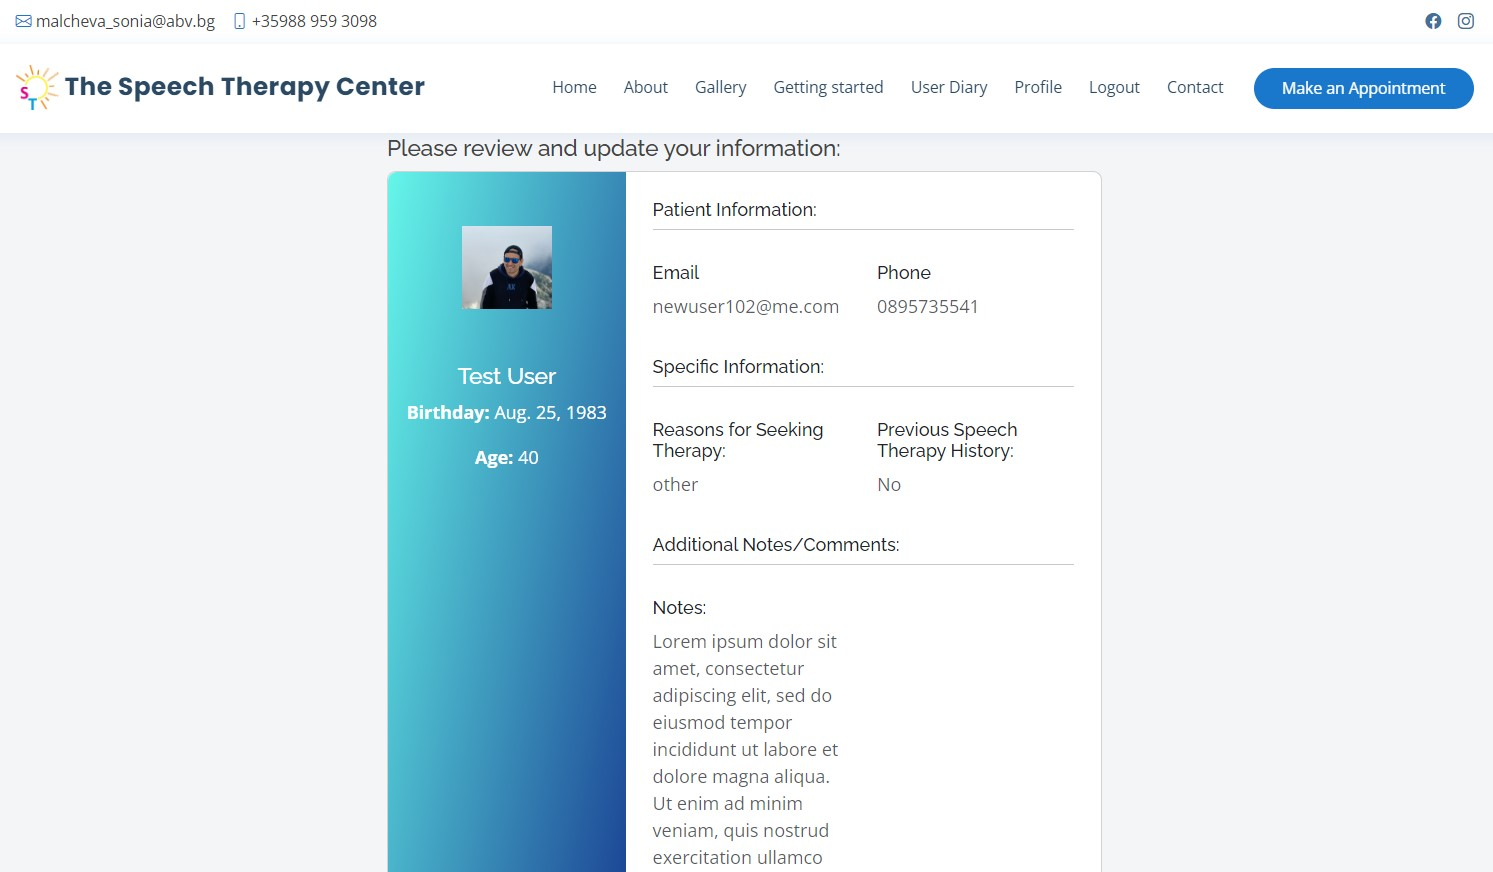
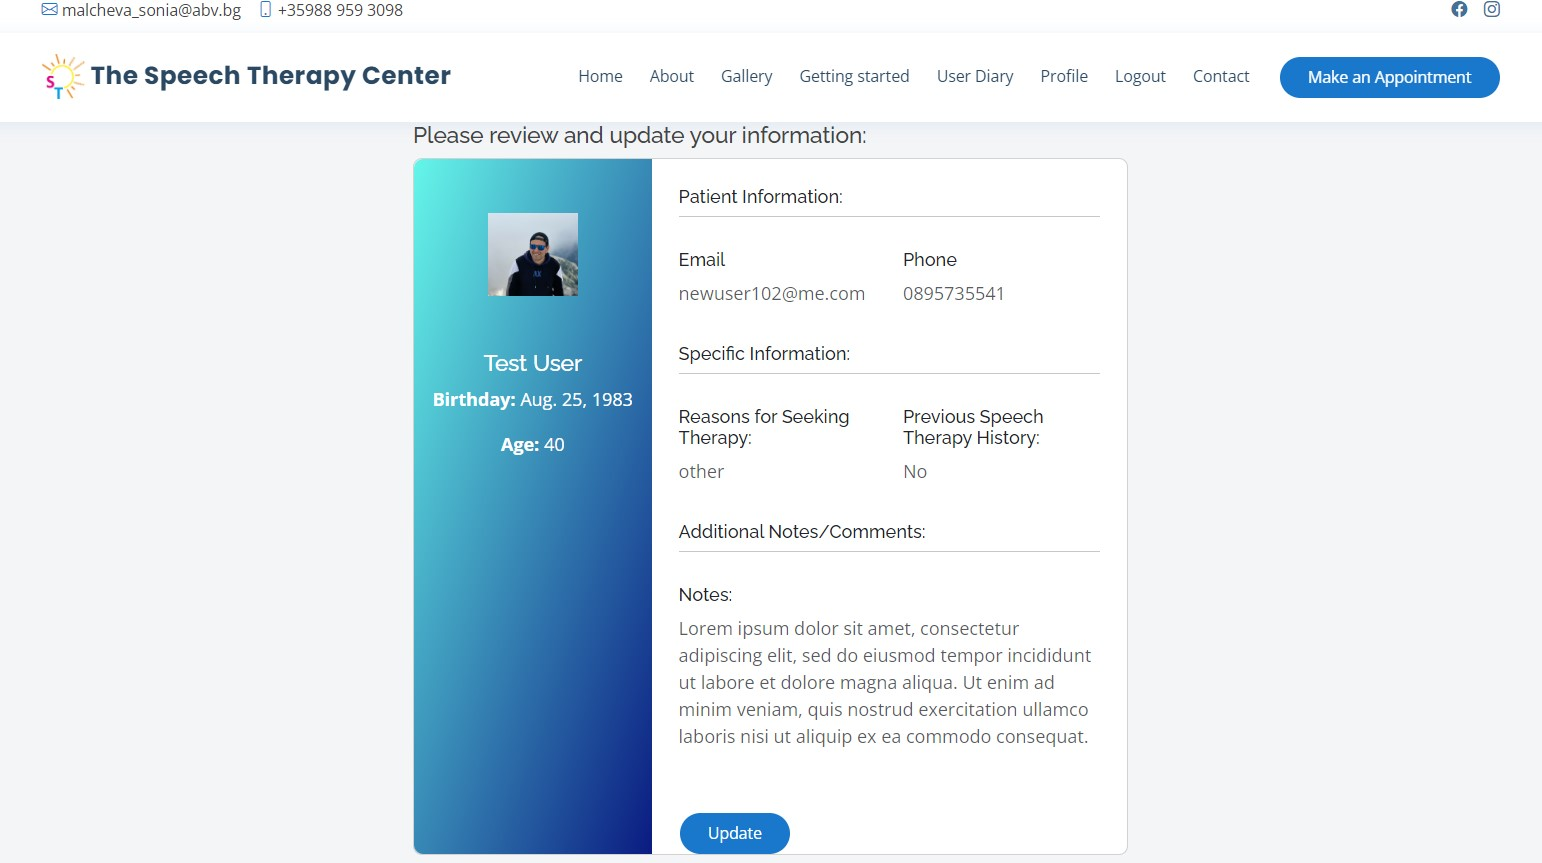
User Questionnaire update

diff --git a/the_speach_therapy_center/templates/services/questionnaires.html b/the_speach_therapy_center/templates/services/questionnaires.html
@@ -14,7 +14,7 @@
                 {% endif %}
                     <h6> * you have completed {{ questionnaires_count }} questionnaires</h6>
             <a href="{% url 'create_questionnaire' %}" class="appointment-btn">Add questionnaire </a>
-        
+
         </div>
       </div>
     <div class="d-flex flex-wrap justify-content-center align-items-center questionnaires-container ">
@@ -34,17 +34,17 @@
                         <p class="card-text">Answer: {{ questionnaire.question_five }}</p>
                       <h5 class="card-title">Additional comments/notes:</h5>
                         <p class="card-text">Notes: {{ questionnaire.comments }}</p>
+                    <a href="{% url 'edit_questionnaire' pk=questionnaire.pk %}" class="appointment-btn"> Update </a>
                 </div>
             </div>
     {% endfor %}
     </div>
-    
+
 {% endblock %}
 
 
 
 
 
-                
 
-                    
+

diff --git a/the_speach_therapy_center/templates/services/questionnaire_edit.html b/the_speach_therapy_center/templates/services/questionnaire_edit.html
@@ -8,9 +8,10 @@
       <div class="container card bg-light mb-3 justify-content-center align-items-center" style="max-width: 60rem;">
         <div class="section-title-registration">
             
-            <h5>Please take a moment to answer the following questions regarding your recent therapy session.</h5>
-                <form action="{% url 'create_questionnaire' %}" method="post"  class="user-update-form">
-                        {{ form.as_p}}
+            <h2> Edit your answers:</h2>
+                <form action="{% url 'edit_questionnaire' pk=object.pk %}" method="post"  class="user-update-form">
+                    
+                    {{ form.as_p}}
                     
                 <button class="appointment-btn" type="submit">Save</button>
             {% csrf_token %}

diff --git a/the_speach_therapy_center/the_speach_therapy_center/services/models.py b/the_speach_therapy_center/the_speach_therapy_center/services/models.py
@@ -1,6 +1,6 @@
 from django.contrib.auth import get_user_model
 from django.db import models
-from django.utils.text import slugify
+
 
 from the_speach_therapy_center.core.models import UserRelatedEntity
 
@@ -8,7 +8,7 @@ UserModel = get_user_model()
 
 
 class UserQuestionnaire(UserRelatedEntity, models.Model):
-    MAX_NAME_LENGTH = 30
+    MAX_COMMENTS_LENGTH = 500
 
     ANSWER_CHOICES = [
         ('Never', 'Never'),
@@ -22,7 +22,7 @@ class UserQuestionnaire(UserRelatedEntity, models.Model):
         choices=ANSWER_CHOICES,
         null=False,
         blank=False,
-        verbose_name="How often do you experience difficulty pronouncing certain sounds?"
+        verbose_name="How often do you experience difficulty pronouncing certain sounds?",
     )
 
     question_two = models.TextField(
@@ -54,7 +54,7 @@ class UserQuestionnaire(UserRelatedEntity, models.Model):
     )
 
     comments = models.CharField(
-        max_length=MAX_NAME_LENGTH,
+        max_length=MAX_COMMENTS_LENGTH,
         null=False,
         blank=False,
         verbose_name="Additional Comments/Feedback:",

diff --git a/the_speach_therapy_center/the_speach_therapy_center/services/migrations/0005_alter_userquestionnaire_question_one.py b/the_speach_therapy_center/the_speach_therapy_center/services/migrations/0005_alter_userquestionnaire_question_one.py
@@ -1,0 +1,18 @@
+# Generated by Django 5.0.2 on 2024-03-23 14:37
+
+from django.db import migrations, models
+
+
+class Migration(migrations.Migration):
+
+    dependencies = [
+        ('services', '0004_alter_userquestionnaire_comments'),
+    ]
+
+    operations = [
+        migrations.AlterField(
+            model_name='userquestionnaire',
+            name='question_one',
+            field=models.TextField(choices=[('Never', 'Never'), ('Rarely', 'Rarely'), ('Occasionally', 'Occasionally'), ('Frequently', 'Frequently'), ('Always', 'Always')], help_text='AlaBala', verbose_name='How often do you experience difficulty pronouncing certain sounds?'),
+        ),
+    ]

diff --git a/the_speach_therapy_center/the_speach_therapy_center/services/views.py b/the_speach_therapy_center/the_speach_therapy_center/services/views.py
@@ -59,11 +59,11 @@ class DetailsQuestionnaireView(views.DetailView):
 
 
 class EditQuestionnaireView(views.UpdateView):
-    pass
-    # queryset = Car.objects.all()
-    # fields = ('type', 'model', 'year', 'image_url', 'price')
-    # template_name = 'car/car-edit.html'
-    # success_url = reverse_lazy('catalogue')
+    queryset = UserQuestionnaire.objects.all()
+    fields = ['question_one', 'question_two', 'question_three', 'question_four',
+              'question_five', 'comments', ]
+    template_name = 'services/questionnaire_edit.html'
+    success_url = reverse_lazy('questionnaires_page')
 
 
 class DeleteQuestionnaireView(views.DeleteView):

diff --git a/the_speach_therapy_center/the_speach_therapy_center/services/migrations/0004_alter_userquestionnaire_comments.py b/the_speach_therapy_center/the_speach_therapy_center/services/migrations/0004_alter_userquestionnaire_comments.py
@@ -1,0 +1,18 @@
+# Generated by Django 5.0.2 on 2024-03-23 14:10
+
+from django.db import migrations, models
+
+
+class Migration(migrations.Migration):
+
+    dependencies = [
+        ('services', '0003_remove_userquestionnaire_name_and_more'),
+    ]
+
+    operations = [
+        migrations.AlterField(
+            model_name='userquestionnaire',
+            name='comments',
+            field=models.CharField(max_length=500, verbose_name='Additional Comments/Feedback:'),
+        ),
+    ]

diff --git a/the_speach_therapy_center/the_speach_therapy_center/services/forms.py b/the_speach_therapy_center/the_speach_therapy_center/services/forms.py
@@ -6,5 +6,13 @@ from the_speach_therapy_center.services.models import UserQuestionnaire
 class CreateQuestionnaireForm(forms.ModelForm):
     class Meta:
         model = UserQuestionnaire
-        fields = ['comments', 'question_one', 'question_two', 'question_three', 'question_four',
-                  'question_five']
+        fields = ['question_one', 'question_two', 'question_three', 'question_four',
+                  'question_five', 'comments', ]
+
+
+
+
+
+
+
+
